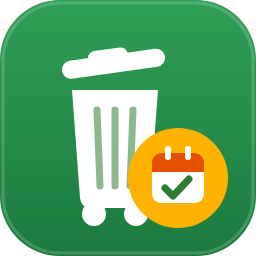
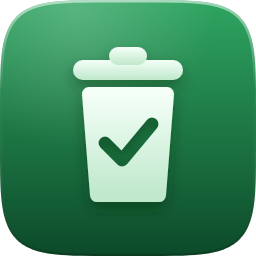
Redesign brand images and release 0.1.3
Replace icon, dark_icon, logo and dark_logo with a refined design and
bump the version to 0.1.3.

Claude-Session: https://claude.ai/code/session_01PVoH4p5XfvYrSKsbNZaqTM

diff --git a/CHANGELOG.md b/CHANGELOG.md
@@ -1,5 +1,9 @@
 # Changelog
 
+## 0.1.3
+
+- Redesigned brand images (`icon`, `logo` and dark variants): a single clean bin glyph with a check mark.
+
 ## 0.1.2
 
 - Fixed location of the brand images (now in `custom_components/nvoa/brand/`).
